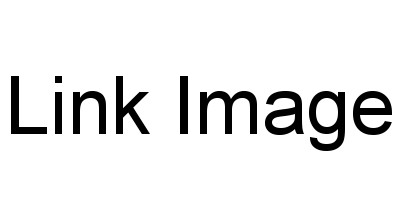
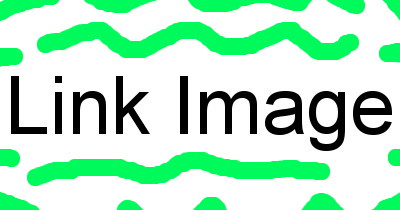
change linkimage data

diff --git a/js/playground.js b/js/playground.js
@@ -62,7 +62,7 @@ function initialize() {
     tester = new ImageView()
         .setPos(50, 50)
         .setScale(0.5)
-        .setImageSrc("https://cjftya.github.io/assets/linkimage.jpg");
+        .setImageSrc("https://cjftya.github.io/assets/logo2.JPG");
 
     counter = 0;
 }
